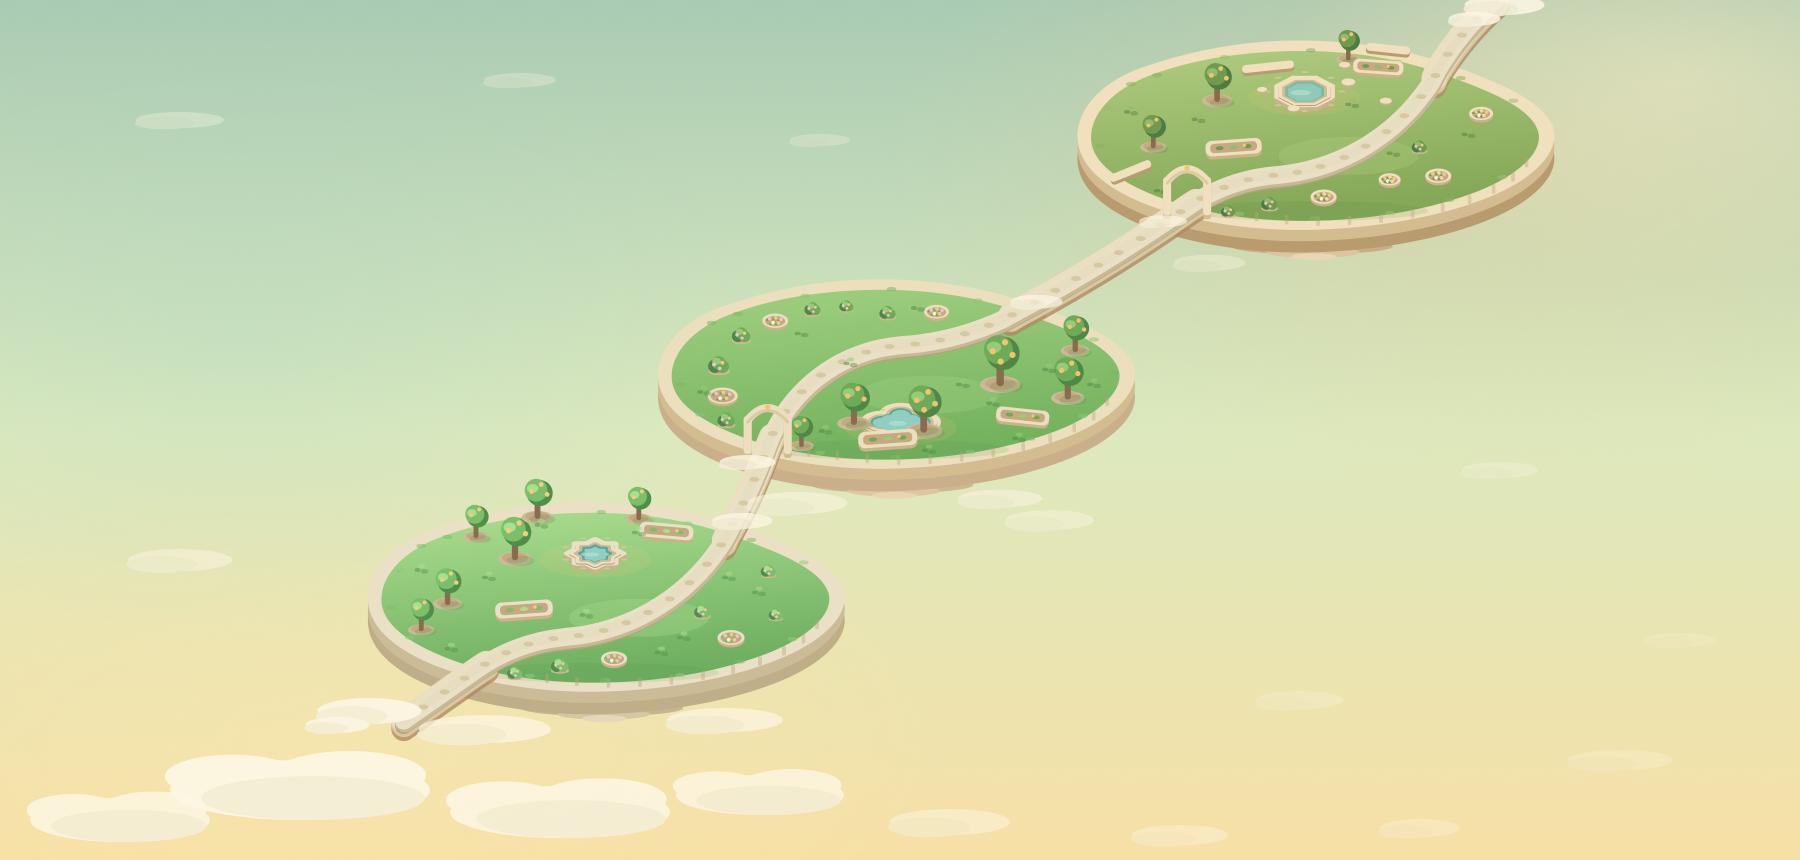
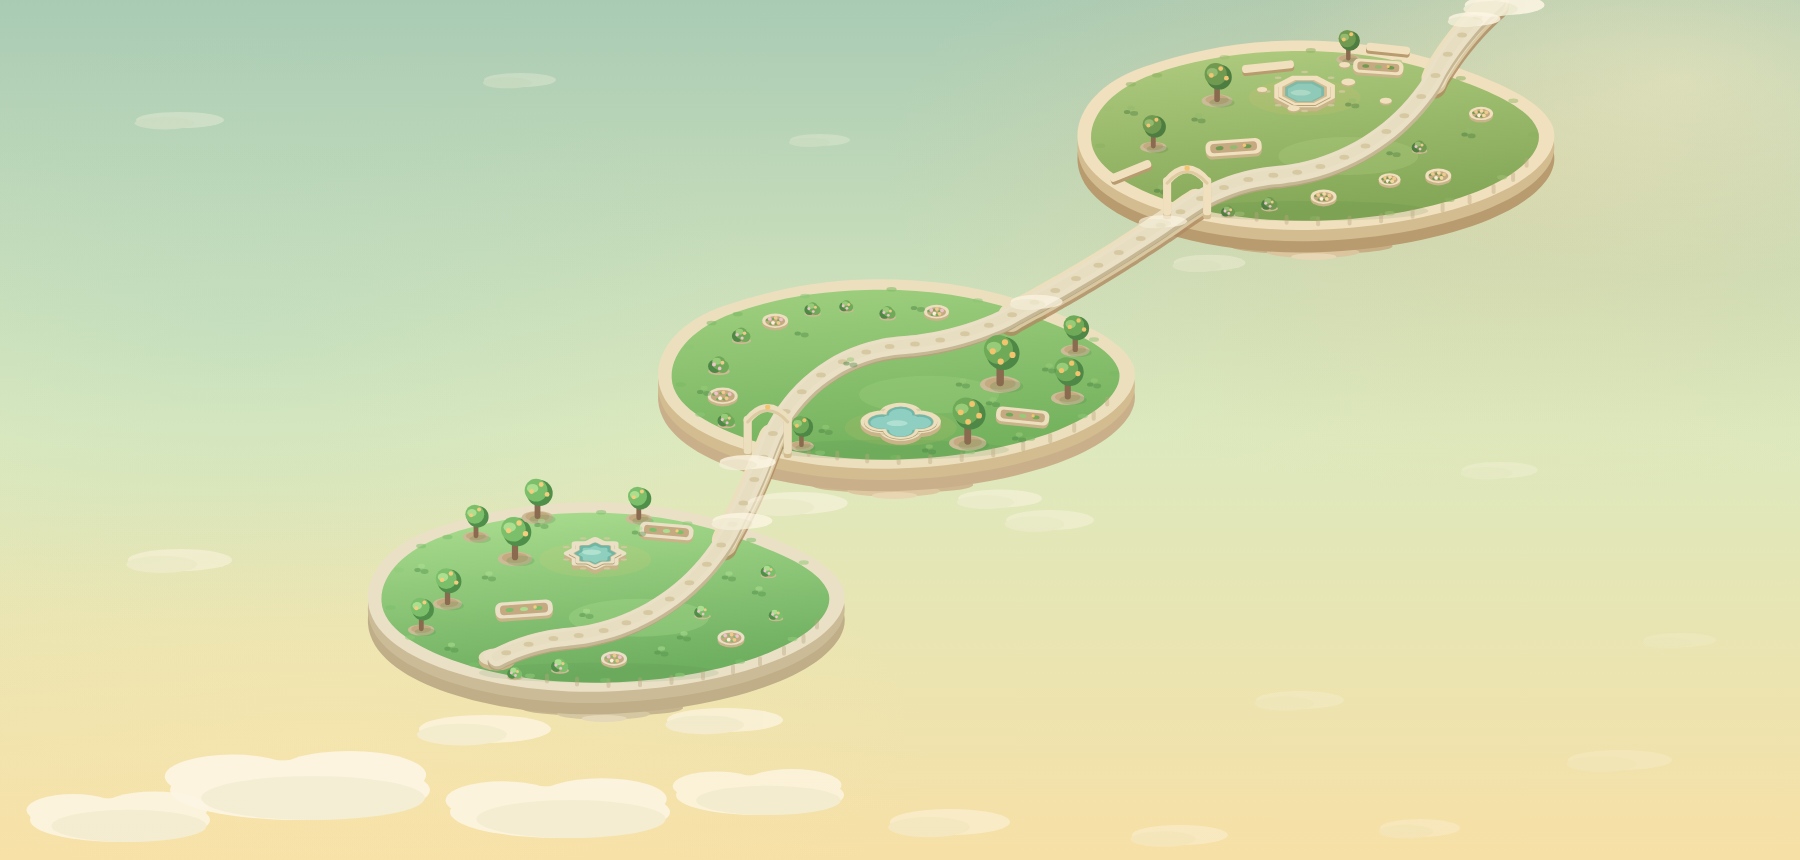
r4.1: full pools, spots on the path, court cleared, no valley on-ramp; robust water layers
Paint: water-1/2 repainted as brimming pools; all 24 spots on the walk
centerline; orchard court cleared; valley trailhead replaces the
on-ramp. Engine: layerRoot now extracts named groups wherever the
artist nested them (nested water groups rasterized empty before —
fail-loud added); asset+script versions bumped.

Changed region(s): [[0.4667, 0.4535, 0.56, 0.5442], [0.1556, 0.7558, 0.28, 0.8767], [0.3111, 0.6349, 0.3422, 0.6651]]

diff --git a/v3/js/prototypes/p19.js b/v3/js/prototypes/p19.js
@@ -17,8 +17,8 @@
   const MAP_KEY = (new URLSearchParams(location.search).get('map') || 'final')
     .replace(/[^A-Za-z0-9_-]/g, '');
   const ASSET_URL = new URL(MAP_KEY === 'final'
-    ? '../../map-artist-pack/journey-map.svg?v=355'
-    : '../../map-artist-pack/drafts/' + MAP_KEY + '/journey-map.svg?v=355',
+    ? '../../map-artist-pack/journey-map.svg?v=358'
+    : '../../map-artist-pack/drafts/' + MAP_KEY + '/journey-map.svg?v=358',
   scriptUrl).href;
   // Contract v2 (round 4): 8 spots per region — the adopted 8/8/8 cut of
   // the 24-key WORLD_ORDER (Valley 1–8, Orchard 9–16, Heights 17–24).
@@ -52,11 +52,20 @@
     });
   }
 
+  // Isolate one named group as its own renderable document, wherever the
+  // artist nested it: strip every sibling along its ancestor chain (keeping
+  // defs), so ancestor transforms still apply to the survivor.
   function layerRoot(root, id) {
     const clone = root.cloneNode(true);
-    for (const child of Array.from(clone.children)) {
-      const tag = child.localName && child.localName.toLowerCase();
-      if (tag !== 'defs' && child.id !== id) child.remove();
+    let node = clone.querySelector('#' + id);
+    if (!node) throw new Error('map contract: #' + id + ' missing at layer split');
+    while (node && node !== clone) {
+      const parent = node.parentNode;
+      for (const sib of Array.from(parent.children)) {
+        const tag = sib.localName && sib.localName.toLowerCase();
+        if (sib !== node && tag !== 'defs') sib.remove();
+      }
+      node = parent;
     }
     return clone;
   }

diff --git a/index.html b/index.html
@@ -87,7 +87,7 @@
   <script src="v3/js/prototypes/p16.js?v=344"></script>
   <script src="v3/js/prototypes/p17.js?v=345"></script>
   <script src="v3/js/prototypes/p18.js?v=346"></script>
-  <script src="v3/js/prototypes/p19.js?v=357"></script>
+  <script src="v3/js/prototypes/p19.js?v=358"></script>
   <script src="v3/js/adventure.js?v=356"></script>
   <script src="v3/js/shrine.js?v=328"></script>
   <script src="v3/js/grownups.js?v=322"></script>

diff --git a/v3/index.html b/v3/index.html
@@ -64,7 +64,7 @@
   <script src="js/prototypes/p16.js?v=344"></script>
   <script src="js/prototypes/p17.js?v=345"></script>
   <script src="js/prototypes/p18.js?v=346"></script>
-  <script src="js/prototypes/p19.js?v=357"></script>
+  <script src="js/prototypes/p19.js?v=358"></script>
   <script src="js/adventure.js?v=356"></script>
   <script src="js/shrine.js?v=328"></script>
   <script src="js/grownups.js?v=322"></script>

diff --git a/v3/map-artist-pack/drafts/r1/LOG.md b/v3/map-artist-pack/drafts/r1/LOG.md
@@ -325,4 +325,40 @@ v2 loader rejects the old `map=final` painting and the v1 stub — on
 adoption, r4 becomes `map-artist-pack/journey-map.svg` (new final),
 the stub gets rebuilt to v2, and `?lab=19` defaults must load clean.
 
-**VERDICTS (pending): the r4 full map on the phone.**
+**R4 FULL-MAP VERDICT 1 (Hasnain, 2026-07-15, phone): direction
+holds, five fixes:**
+1. **Awake pools must be FULL of water.** The fountain animation is
+   great, but activated islands' basins read dry — the painted fill
+   inside `water-1`/`water-2` is too modest. The awake look is a full
+   vivid pool (the octagon's read); dry basins are only for asleep.
+2. **Every gem/waypoint sits ON the path.** Spot anchors move onto
+   the walk centerline, not near it.
+3. **Keyboard navigation** (engine): the map must be walkable with
+   arrows — not just tapping. Arrows move her along the trail;
+   enter/space blooms the star or enters a bloomed world.
+4. **Orchard: a tree and a parterre sit IN the fountain court** —
+   placement bug; the court and its air stay clear.
+5. **The first island gets NO on-ramp** — the journey starts there;
+   the walk begins on the valley itself, no bridge from nowhere.
+
+**r4.1 landed (2026-07-15):** all five fixes done and browser-verified.
+Paint: `water-1/2` repainted as brimming pools (octagon-family water);
+all 24 spots moved ONTO the walk centerline (≤0.05 units off); the
+orchard court cleared (tree + parterre out, shrub slid clear); the
+valley on-ramp deleted — the walk now begins on the valley grass at a
+small trailhead. Engine: arrows walk her along the trail with the
+camera following (clamped at the journey's breathing edge),
+enter/space blooms the star or opens a world; `layerRoot` made
+nesting-robust (water groups extract with their ancestor transforms
+wherever the artist grouped them — r4.1 nested them and the pools
+silently rasterized empty; fail-loud added).
+TRADEOFF for Hasnain's eyes: with 8 spots per island ON a ~260–410
+unit road, the old ≥90-unit spot spacing is geometrically impossible —
+spots are now evenly spaced (min gaps 41/59/37 valley/orchard/
+courtyard). If gems crowd at phone distance, the outs are: fewer
+painted road-dots, longer in-island roads next revision, or gems
+alternating road edges. Contract §5's "≥90 apart" is superseded by
+"evenly spaced along the island's road, non-overlapping at phone
+scale."
+
+**VERDICTS (pending): r4.1 on the phone.**